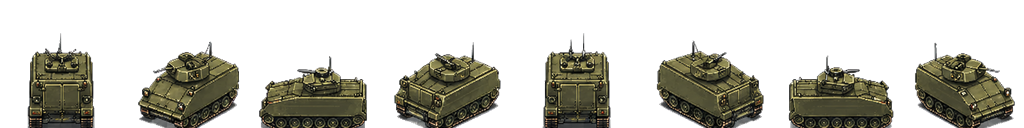
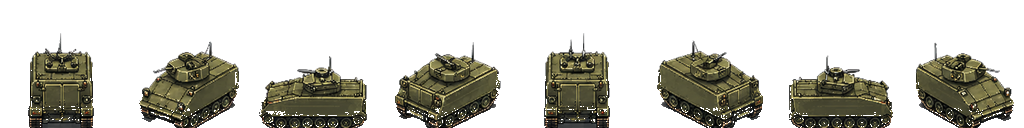
Clean up M113 ground contact

diff --git a/apps/web/src/components/BattlefieldStage.tsx b/apps/web/src/components/BattlefieldStage.tsx
@@ -4004,9 +4004,9 @@ export function BattlefieldStage({
                     const baseAlpha = isFriendly ? 0.11 : 0.17;
                     const baseRx = isGroundVehicle ? footprint.rx * 0.74 : footprint.rx * 1.14;
                     const baseRy = isGroundVehicle ? footprint.ry * 0.56 : footprint.ry * 1.22;
-                    const shadowAlpha = isGroundVehicle ? 0 : footprint.alpha;
-                    const shadowRx = isGroundVehicle ? footprint.rx * 0.7 : footprint.rx;
-                    const shadowRy = isGroundVehicle ? footprint.ry * 0.52 : footprint.ry;
+                    const shadowAlpha = isGroundVehicle ? (movingThisUnit ? 0.18 : 0.14) : footprint.alpha;
+                    const shadowRx = isGroundVehicle ? footprint.rx * (movingThisUnit ? 0.56 : 0.5) : footprint.rx;
+                    const shadowRy = isGroundVehicle ? footprint.ry * (movingThisUnit ? 0.34 : 0.3) : footprint.ry;
 	                  const showFactionBase = isSelected || isTarget;
 	                  if (showFactionBase && !isGroundVehicle) {
 	                    g.beginFill(isFriendly ? 0x1b5771 : 0x861d17, isVisible ? baseAlpha : baseAlpha * 0.55);
@@ -4014,8 +4014,8 @@ export function BattlefieldStage({
 	                    g.endFill();
                   }
                     if (shadowAlpha > 0) {
-	                    g.beginFill(0x000000, isVisible ? shadowAlpha : shadowAlpha * 0.55);
-	                    g.drawEllipse(1, footprint.y, shadowRx, shadowRy);
+	                    g.beginFill(isGroundVehicle ? 0x020403 : 0x000000, isVisible ? shadowAlpha : shadowAlpha * 0.55);
+	                    g.drawEllipse(1, footprint.y + (isGroundVehicle ? tileSize * 0.012 : 0), shadowRx, shadowRy);
 	                    g.endFill();
                     }
                     if (!isGroundVehicle) {
